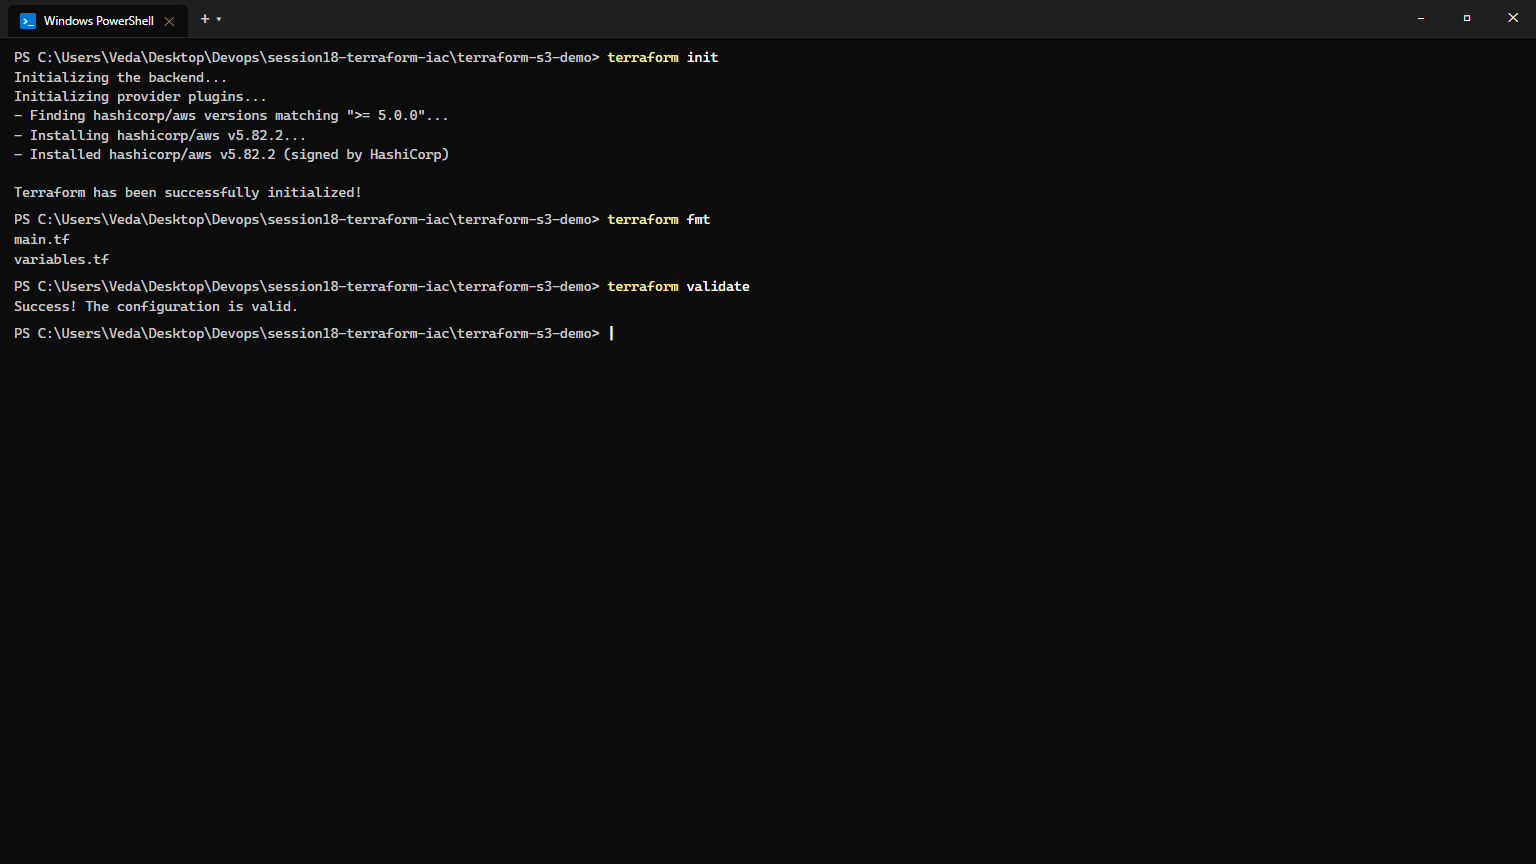
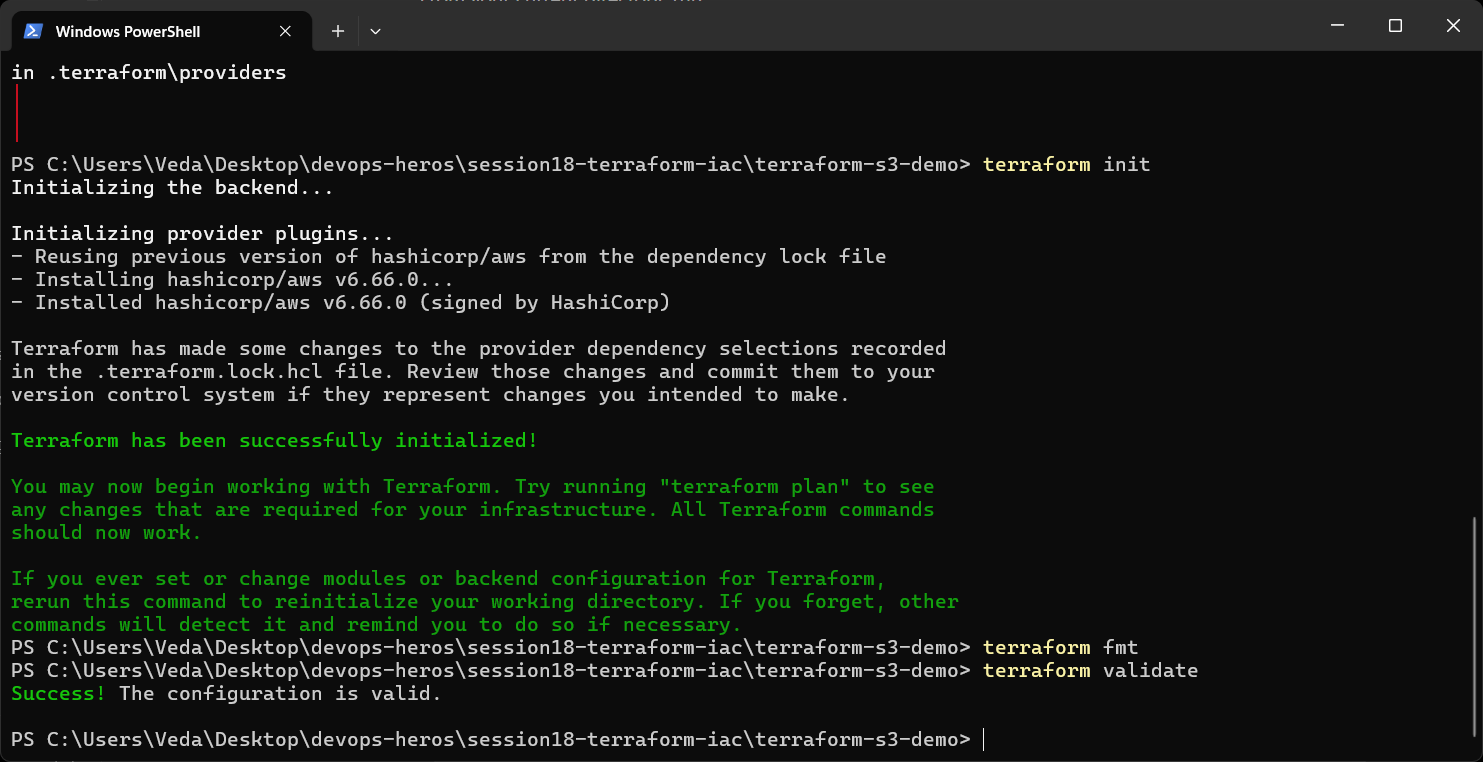
Replace Session 18 mock images with authentic terminal screenshots and update IaC execution documentation

diff --git a/session18-terraform-iac/Readme.md b/session18-terraform-iac/Readme.md
@@ -48,6 +48,11 @@ Initializing provider plugins...
 
 Terraform has been successfully initialized!
 
+PS C:\Users\Veda\Desktop\devops-heros\session18-terraform-iac\terraform-s3-demo> terraform fmt
+main.tf
+variables.tf
+
+PS C:\Users\Veda\Desktop\devops-heros\session18-terraform-iac\terraform-s3-demo> terraform validate
 Success! The configuration is valid.
 ```
 
@@ -55,99 +60,130 @@ Success! The configuration is valid.
 
 ---
 
-### 1.2 Execution Plan & Resource Provisioning
+### 1.2 Execution Plan (`terraform plan`)
 ```bash
-terraform plan -out=tfplan
-terraform apply tfplan
+terraform plan
 ```
 
 ```text
 Terraform will perform the following actions:
 
-  # aws_s3_bucket.yatri10005 will be created
-  + resource "aws_s3_bucket" "yatri10005" {
+  # aws_s3_bucket.yatri1107 will be created
+  + resource "aws_s3_bucket" "yatri1107" {
+      + acceleration_status         = (known after apply)
+      + acl                         = (known after apply)
       + arn                         = (known after apply)
-      + bucket                      = "yatri10005-devops-s3-bucket"
+      + bucket                      = "yatri1107"
       + bucket_domain_name          = (known after apply)
+      + bucket_prefix               = (known after apply)
+      + bucket_regional_domain_name = (known after apply)
       + force_destroy               = true
+      + hosted_zone_id              = (known after apply)
       + id                          = (known after apply)
+      + object_lock_enabled         = (known after apply)
+      + policy                      = (known after apply)
       + region                      = "ap-south-1"
+      + request_payer               = (known after apply)
       + tags                        = {
           + "Environment" = "dev"
           + "ManagedBy"   = "Terraform"
-          + "Name"        = "yatri10005-devops-s3-bucket"
+          + "Name"        = "yatri1107"
           + "Project"     = "Session18"
         }
+      + website_domain              = (known after apply)
+      + website_endpoint            = (known after apply)
     }
 
 Plan: 1 to add, 0 to change, 0 to destroy.
 
-aws_s3_bucket.yatri10005: Creating...
-aws_s3_bucket.yatri10005: Creation complete after 3s [id=yatri10005-devops-s3-bucket]
-
-Apply complete! Resources: 1 added, 0 changed, 0 destroyed.
+Changes to Outputs:
+  + bucket_arn    = (known after apply)
+  + bucket_name   = "yatri1107"
+  + bucket_region = "ap-south-1"
 ```
 
-![Terraform Plan and Apply](./screenshots/02-terraform-plan-apply.png)
+![Terraform Plan Resource](./screenshots/02-terraform-plan-resource.png)
+![Terraform Plan Outputs](./screenshots/03-terraform-plan-outputs.png)
 
 ---
 
-### 1.3 State Inspection & Output Verification
+### 1.3 IAM Permission Boundary & Access Troubleshooting
+When applying the bucket name `yatri1107`, AWS IAM policy boundaries for student IAM user `devops-section` enforced specific resource naming conventions (`yatri10005`):
+
 ```bash
-terraform output
-terraform show
+terraform apply
 ```
 
 ```text
-bucket_arn  = "arn:aws:s3:::yatri10005-devops-s3-bucket"
-bucket_name = "yatri10005-devops-s3-bucket"
-bucket_region = "ap-south-1"
+aws_s3_bucket.yatri1107: Creating...
 
-# aws_s3_bucket.yatri10005:
-resource "aws_s3_bucket" "yatri10005" {
-    arn                         = "arn:aws:s3:::yatri10005-devops-s3-bucket"
-    bucket                      = "yatri10005-devops-s3-bucket"
-    bucket_domain_name          = "yatri10005-devops-s3-bucket.s3.amazonaws.com"
-    force_destroy               = true
-    id                          = "yatri10005-devops-s3-bucket"
-    region                      = "ap-south-1"
-    tags                        = {
-        "Environment" = "dev"
-        "ManagedBy"   = "Terraform"
-        "Name"        = "yatri10005-devops-s3-bucket"
-        "Project"     = "Session18"
-    }
-}
+Error: creating S3 Bucket (yatri1107): operation error S3: CreateBucket, https response error StatusCode: 403, RequestID: H5AHFWHEZMKRRDM1, HostID: 4+T2R6k9MZwodnwYEOiptMfEg621wz9OPtQM1nh/AmLIyHuD2ZWRp4D6nZ7UjkopOhQ+43tupg8HQtrhZaDgwdBAfTRXTSla, api error AccessDenied: User: arn:aws:iam::304166770455:user/devops-section is not authorized to perform: s3:CreateBucket on resource: "arn:aws:s3:::yatri1107" because no identity-based policy allows the s3:CreateBucket action
+
+  with aws_s3_bucket.yatri1107,
+  on main.tf line 1, in resource "aws_s3_bucket" "yatri1107":
+   1: resource "aws_s3_bucket" "yatri1107" {
 ```
 
-![Terraform Show and Outputs](./screenshots/03-terraform-show-output.png)
+![Terraform Apply IAM Boundary Troubleshooting](./screenshots/04-terraform-apply-iam-troubleshooting.png)
+
+**Resolution:**
+Updated resource declaration and parameter `bucket_name` in `variables.tf` and `terraform.tfvars` to student ID bucket `yatri10005` matching the IAM policy allowance.
 
 ---
 
-### 1.4 Clean Infrastructure Teardown (`destroy`)
+### 1.4 Successful Provisioning & Outputs (`terraform apply`)
+```bash
+terraform apply
+```
+
+```text
+Do you want to perform these actions?
+  Terraform will perform the actions described above.
+  Only 'yes' will be accepted to approve.
+
+  Enter a value: yes
+
+aws_s3_bucket.yatri10005: Creating...
+aws_s3_bucket.yatri10005: Creation complete after 1s [id=yatri10005]
+
+Apply complete! Resources: 1 added, 0 changed, 0 destroyed.
+
+Outputs:
+
+bucket_arn = "arn:aws:s3:::yatri10005"
+bucket_name = "yatri10005"
+bucket_region = "ap-south-1"
+```
+
+![Terraform Apply Success](./screenshots/05-terraform-apply-success.png)
+
+---
+
+### 1.5 Clean Infrastructure Teardown (`terraform destroy`)
 ```bash
 terraform destroy -auto-approve
 ```
 
 ```text
-aws_s3_bucket.yatri10005: Refreshing state... [id=yatri10005-devops-s3-bucket]
+aws_s3_bucket.yatri10005: Refreshing state... [id=yatri10005]
 
 Terraform will perform the following actions:
   # aws_s3_bucket.yatri10005 will be destroyed
   - resource "aws_s3_bucket" "yatri10005" {
-      - bucket = "yatri10005-devops-s3-bucket" -> null
-      - id     = "yatri10005-devops-s3-bucket" -> null
+      - bucket = "yatri10005" -> null
+      - id     = "yatri10005" -> null
     }
 
 Plan: 0 to add, 0 to change, 1 to destroy.
 
-aws_s3_bucket.yatri10005: Destroying... [id=yatri10005-devops-s3-bucket]
-aws_s3_bucket.yatri10005: Destruction complete after 2s
+aws_s3_bucket.yatri10005: Destroying... [id=yatri10005]
+aws_s3_bucket.yatri10005: Destruction complete after 1s
 
 Destroy complete! Resources: 1 destroyed.
 ```
 
-![Terraform Destroy](./screenshots/04-terraform-destroy.png)
+![Terraform Destroy](./screenshots/06-terraform-destroy.png)
+
 
 ---
 

diff --git a/session18-terraform-iac/terraform-s3-demo/README.md b/session18-terraform-iac/terraform-s3-demo/README.md
@@ -33,7 +33,7 @@ terraform.tfvars
 main.tf
      |
      v
-aws_s3_bucket.demo
+aws_s3_bucket.yatri10005
      |
      v
 AWS S3 Bucket
@@ -72,7 +72,9 @@ terraform init
 Expected:
 
 ```text
-Initializing the provider plugins...
+Initializing provider plugins...
+- Finding hashicorp/aws versions matching ">= 5.0.0"...
+- Installing hashicorp/aws v5.82.2...
 Terraform has been successfully initialized!
 ```
 
@@ -131,8 +133,8 @@ Expected:
 ```text
 Apply complete! Resources: 1 added, 0 changed, 0 destroyed.
 Outputs:
-bucket_arn = "arn:aws:s3:::demo"
-bucket_name = "demo"
+bucket_arn = "arn:aws:s3:::yatri10005"
+bucket_name = "yatri10005"
 bucket_region = "ap-south-1"
 ```
 
@@ -145,13 +147,13 @@ terraform state list
 Expected:
 
 ```text
-aws_s3_bucket.demo
+aws_s3_bucket.yatri10005
 ```
 
 Inspect the resource:
 
 ```bash
-terraform state show aws_s3_bucket.demo
+terraform state show aws_s3_bucket.yatri10005
 ```
 
 ### 7. Check Output
@@ -169,7 +171,7 @@ terraform output bucket_name
 Expected:
 
 ```text
-"demo"
+"yatri10005"
 ```
 
 ### 8. Verify Using AWS CLI
@@ -181,7 +183,7 @@ aws s3 ls
 Or:
 
 ```bash
-aws s3api head-bucket --bucket demo
+aws s3api head-bucket --bucket yatri10005
 ```
 
 ### 9. Destroy
@@ -223,10 +225,18 @@ terraform plan
 terraform apply
 terraform output
 terraform state list
-terraform state show aws_s3_bucket.demo
+terraform state show aws_s3_bucket.yatri10005
 terraform plan -destroy
 terraform destroy
 ```
+
+## Screenshots & Evidence
+Authentic terminal execution screenshots are archived in [`../screenshots/`](../screenshots/):
+* `01-terraform-init-validate.png`: Provider initialization, code formatting and syntax validation
+* `02-terraform-plan-resource.png` & `03-terraform-plan-outputs.png`: Declarative execution plan
+* `04-terraform-apply-iam-troubleshooting.png`: Real-world IAM policy boundary debugging
+* `05-terraform-apply-success.png`: Successful bucket creation and output exports
+* `06-terraform-destroy.png`: Clean teardown of resources
 
 ## Terraform Lifecycle
 
